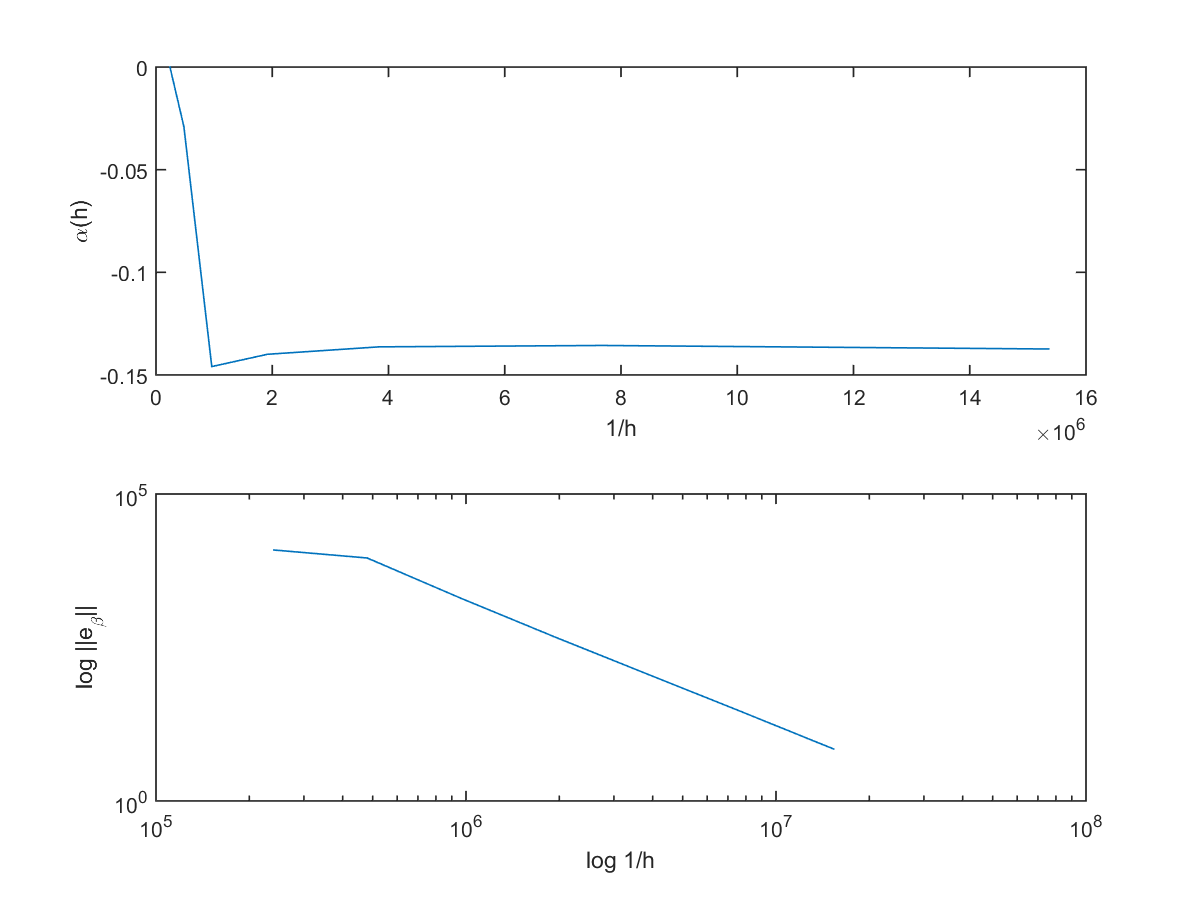
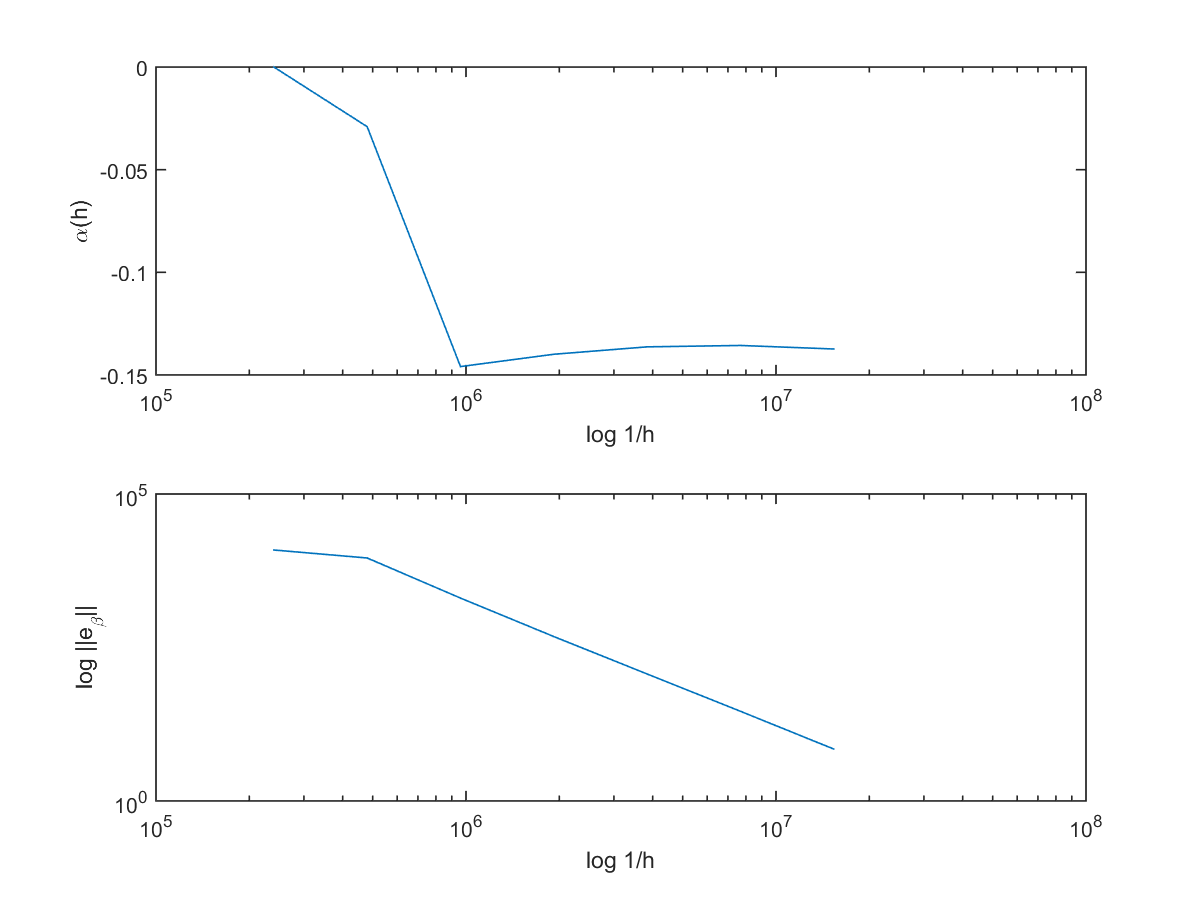
fix graph scales

diff --git a/main.m b/main.m
@@ -78,12 +78,12 @@ for j = 1:length(p)
 	subplot(2, 1, 1)
 	title(strcat('Analyse erreurs avec p = ', num2str(p(j))))
 	hold on
-	plot(1./h, TauxEL2)
-	plot(1./h, TauxEH1)
+	semilogx(1./h, TauxEL2)
+	semilogx(1./h, TauxEH1)
 	hold off
 	legend('L2', 'H1', 'location', 'best')
 	ylabel('\alpha(h)')
-	xlabel('1/h')
+	xlabel('log 1/h')
 
 	subplot(2, 1, 2)
 	hold on
@@ -97,9 +97,9 @@ for j = 1:length(p)
 	figBeta = figure;
 	subplot(2, 1, 1)
 	title(strcat('Analyse Vecteurs Propres avec p = ', num2str(p(j))))
-	plot(1./h, TauxBeta)
+	semilogx(1./h, TauxBeta)
 	ylabel('\alpha(h)')
-	xlabel('1/h')
+	xlabel('log 1/h')
 
 	subplot(2, 1, 2)
 	loglog(1./h, EBeta)
